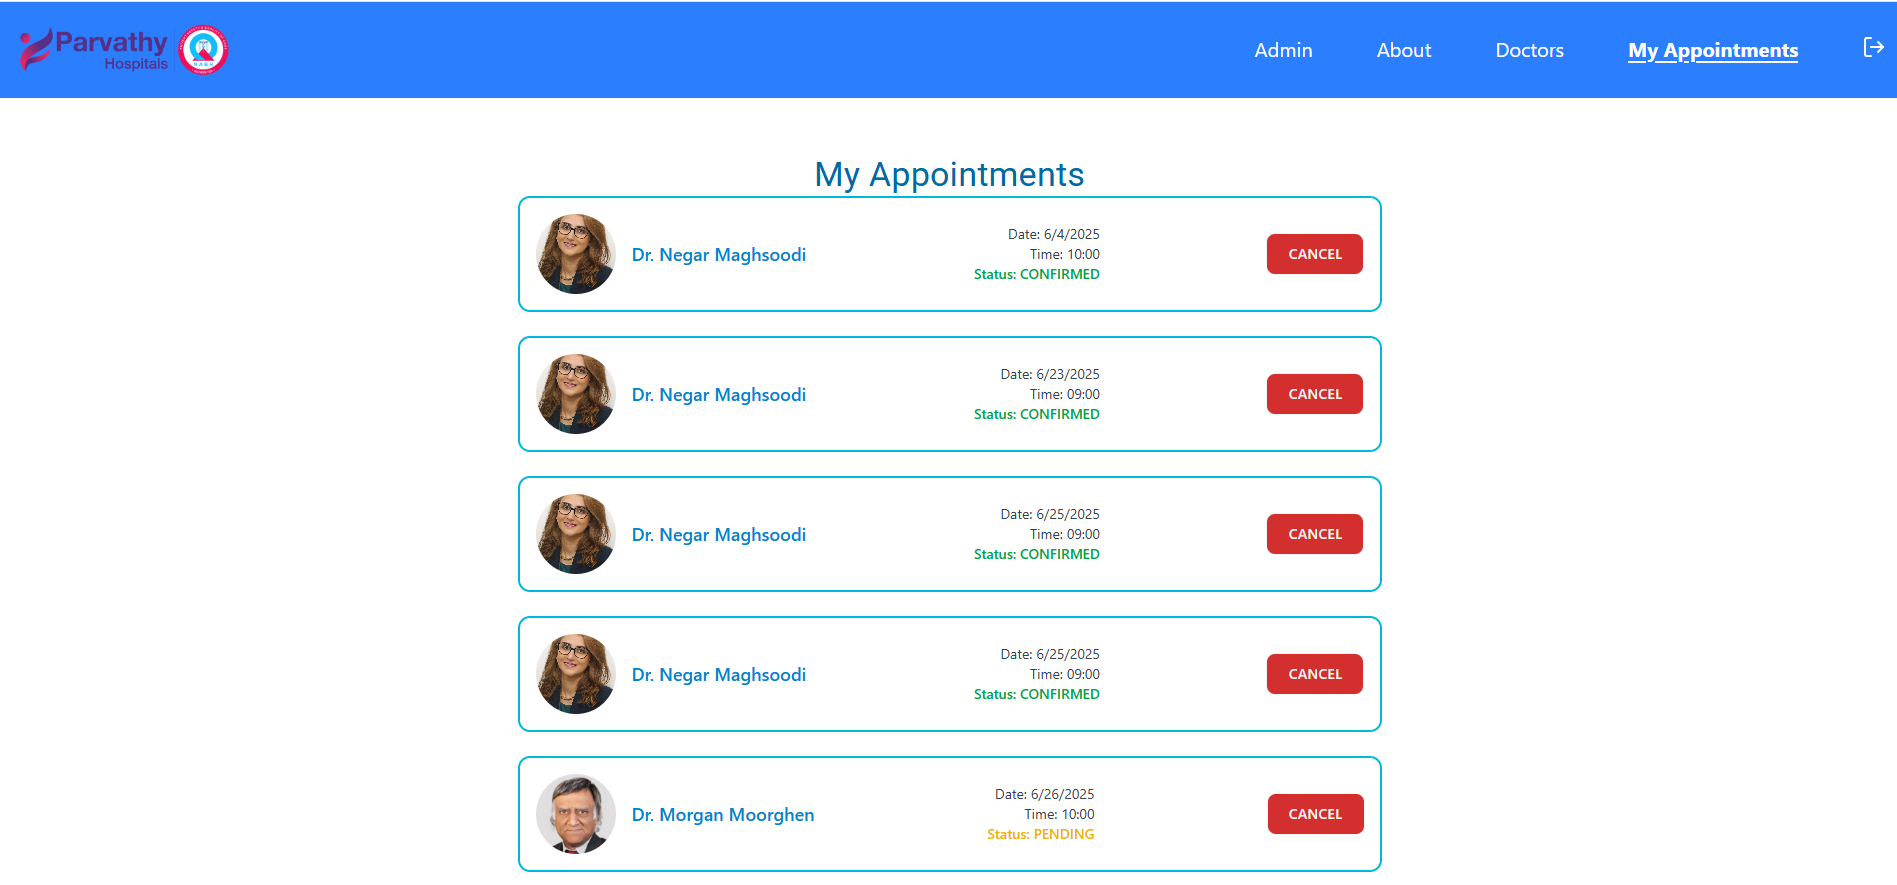
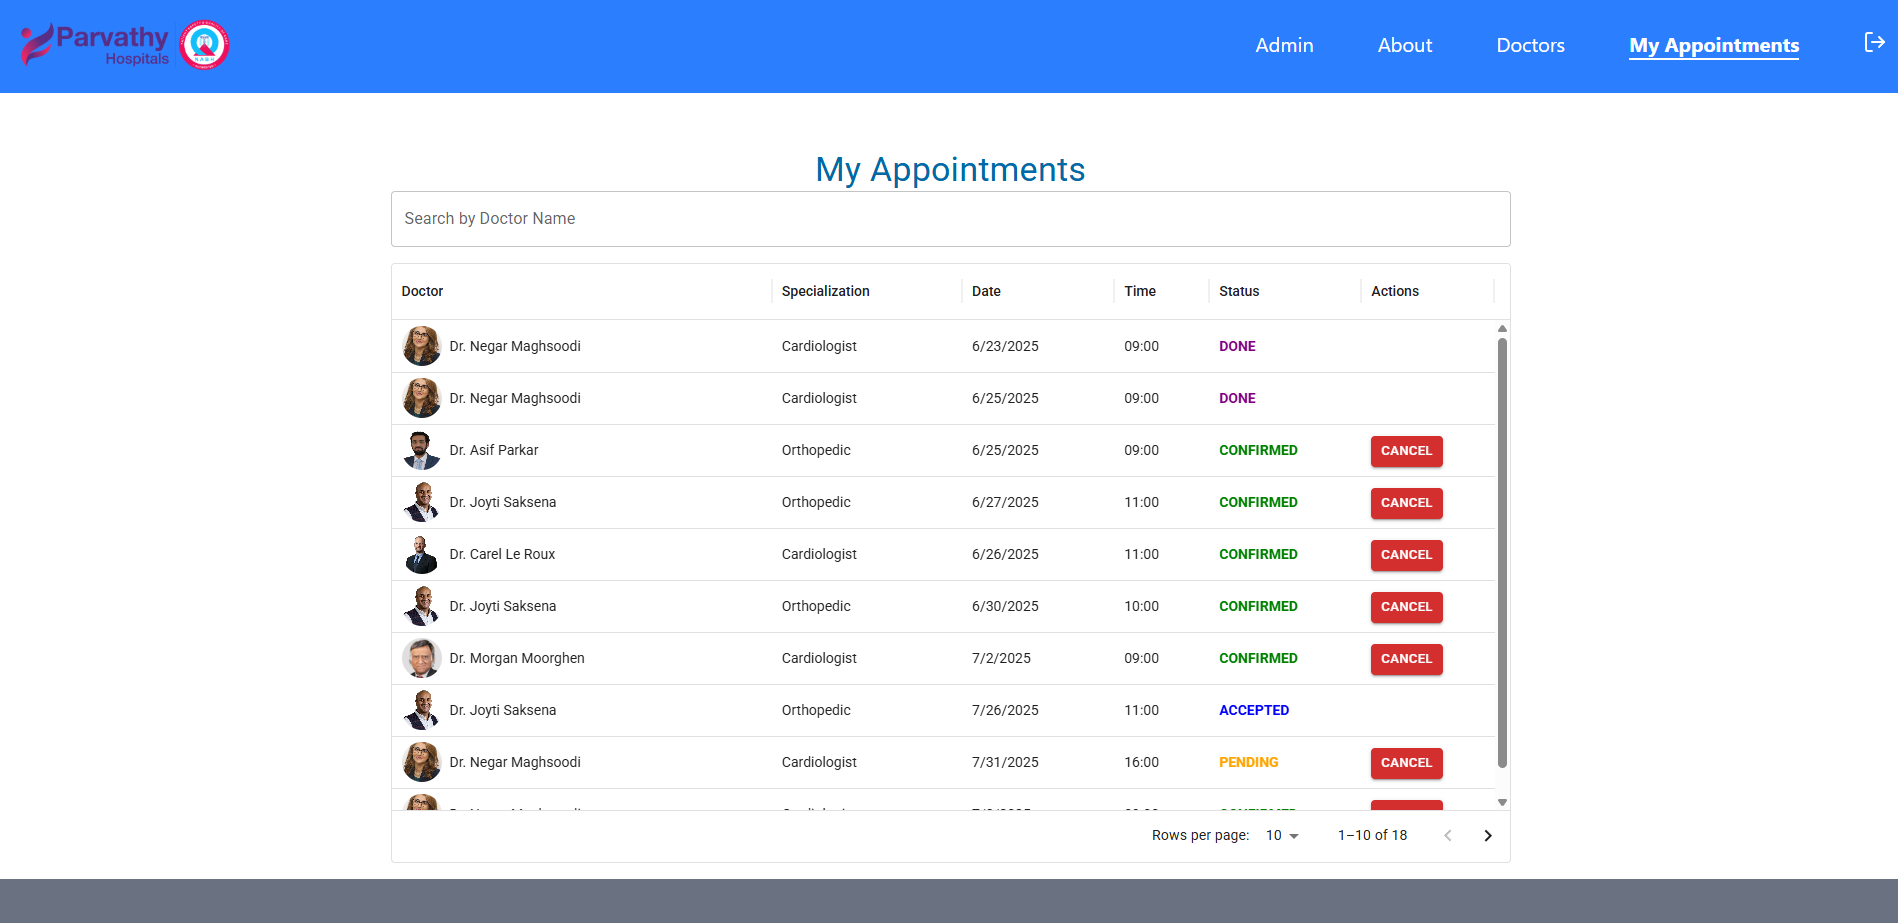
BREAKING CHANGE: whole page replaced with MUI data grid

diff --git a/src/pages/MyAppointmentsPage.tsx b/src/pages/MyAppointmentsPage.tsx
@@ -8,7 +8,10 @@ import {
   DialogContent,
   DialogContentText,
   DialogActions,
+  Avatar,
+  TextField,
 } from "@mui/material";
+import { DataGrid, type GridColDef } from "@mui/x-data-grid";
 import {
   getUserAppointments,
   cancelAppointment,
@@ -32,23 +35,14 @@ const MyAppointmentsPage = () => {
   const [appointmentToCancel, setAppointmentToCancel] = useState<string | null>(
     null
   );
+  const [searchDoctor, setSearchDoctor] = useState("");
 
   const updateStatuses = (appointments: AppointmentType[]) => {
     const now = new Date();
-    console.log("Now:", now.toISOString());
-
     return appointments.map((appt) => {
       if (appt.status === "PENDING") {
         const apptDateTime = parseAppointmentDateTime(appt.date, appt.timeSlot);
-        console.log(
-          `Appointment ${appt._id} datetime:`,
-          apptDateTime.toISOString()
-        );
-
         if (apptDateTime <= now) {
-          console.log(
-            `Updating appointment ${appt._id} status from PENDING to CONFIRMED`
-          );
           return { ...appt, status: "CONFIRMED" };
         }
       }
@@ -60,9 +54,7 @@ const MyAppointmentsPage = () => {
     const fetchAndUpdateAppointments = async () => {
       try {
         await updatePastPendingAppointments();
-
         const data = await getUserAppointments();
-
         const updatedAppointments = updateStatuses(data);
         setAppointments(updatedAppointments);
         setError(null);
@@ -102,79 +94,154 @@ const MyAppointmentsPage = () => {
     }
   };
 
+  const getStatusColor = (status: string) => {
+    switch (status) {
+      case "CANCELED":
+        return "red";
+      case "CONFIRMED":
+        return "green";
+      case "DONE":
+        return "purple";
+      case "ACCEPTED":
+        return "blue";
+      case "REJECTED":
+        return "gray";
+      case "PENDING":
+      default:
+        return "orange";
+    }
+  };
+
+  const columns: GridColDef[] = [
+    {
+      field: "doctor",
+      headerName: "Doctor",
+      flex: 2,
+      sortable: true,
+      sortComparator: (a, b) => {
+        // a, b είναι τα doctor objects
+        const nameA = a && typeof a === "object" ? `${a.firstname} ${a.lastname}`.toLowerCase() : "";
+        const nameB = b && typeof b === "object" ? `${b.firstname} ${b.lastname}`.toLowerCase() : "";
+        return nameA.localeCompare(nameB);
+      },
+      renderCell: (params) => {
+        const doctor = params.value;
+        if (!doctor) return <span className="text-red-500">Unknown</span>;
+        return (
+          <div className="flex items-center gap-2">
+            <Avatar src={doctor.image} alt={doctor.firstname} />
+            <span>
+              Dr. {doctor.firstname} {doctor.lastname}
+            </span>
+          </div>
+        );
+      },
+    },
+    {
+      field: "specialization",
+      headerName: "Specialization",
+      sortable: true,
+      flex: 1,
+      renderCell: (params: any) => {
+        const doctor = params.row.doctor;
+        if (!doctor) return "—";
+        return typeof doctor.specialization === "object"
+          ? doctor.specialization.name
+          : doctor.specialization;
+      },
+    },
+    {
+      field: "date",
+      headerName: "Date",
+      flex: 0.8,
+      renderCell: (params: any) => {
+        const dateValue = params.row.date;
+        if (!dateValue) return "—";
+        const dateObj = new Date(dateValue);
+        return isNaN(dateObj.getTime()) ? "—" : dateObj.toLocaleDateString();
+      },
+    },
+    {
+      field: "timeSlot",
+      headerName: "Time",
+      flex: 0.5,
+    },
+    {
+      field: "status",
+      headerName: "Status",
+      flex: 0.8,
+      renderCell: (params) => (
+        <span
+          style={{ color: getStatusColor(params.value), fontWeight: "bold" }}
+        >
+          {params.value}
+        </span>
+      ),
+    },
+    {
+      field: "actions",
+      headerName: "Actions",
+      flex: 0.7,
+      renderCell: (params) => {
+        const appt = params.row;
+        if (["PENDING", "CONFIRMED"].includes(appt.status)) {
+          return (
+            <Button
+              variant="contained"
+              color="error"
+              size="small"
+              onClick={() => openCancelDialog(appt._id)}
+            >
+              Cancel
+            </Button>
+          );
+        }
+        return null;
+      },
+    },
+  ];
+
+  // Filter appointments by doctor name
+  const filteredAppointments = appointments.filter((appt) => {
+    if (!searchDoctor.trim()) return true;
+    const doctor = appt.doctor;
+    if (!doctor) return false;
+    const fullName = `${doctor.firstname} ${doctor.lastname}`.toLowerCase();
+    return fullName.includes(searchDoctor.trim().toLowerCase());
+  });
+
   if (loading) return <CircularProgress />;
   if (error) return <p className="text-red-500">{error}</p>;
 
   return (
-    <div className="max-w-4xl mx-auto mt-10 p-4 min-h-[55vh]">
-      <Typography variant="h4" className="mb-4 text-center text-sky-700 ">
+    <div className="max-w-6xl mx-auto mt-10 p-4 min-h-[55vh]">
+      <Typography variant="h4" className="mb-6 text-center text-sky-700">
         My Appointments
       </Typography>
-
+      <div className="mb-4 flex justify-end">
+        <TextField
+          label="Search by Doctor Name"
+          variant="outlined"
+          fullWidth
+          value={searchDoctor}
+          onChange={(e) => setSearchDoctor(e.target.value)}
+        />
+      </div>
       {appointments.length === 0 ? (
         <Typography variant="body1" className="text-center text-red-600">
           You have no appointments.
         </Typography>
       ) : (
-        <div className="space-y-6">
-          {appointments.map((appt) => (
-            <div
-              key={appt._id}
-              className="border-2 border-cyan-500 rounded-xl p-4 flex flex-col md:flex-row justify-between items-center"
-            >
-              <div className="flex items-center space-x-4">
-                {appt.doctor.image && (
-                  <img
-                    src={appt.doctor.image}
-                    alt={appt.doctor.firstname}
-                    className="w-20 h-20 rounded-full object-cover"
-                  />
-                )}
-                <div>
-                  <p className="font-semibold text-lg text-sky-600">
-                    Dr. {appt.doctor.firstname} {appt.doctor.lastname}
-                  </p>
-                  <p className="text-gray-500">
-                    {appt.doctor.specialization.name}
-                  </p>
-                </div>
-              </div>
-
-              <div className="text-center md:text-right mt-4 md:mt-0">
-                <p className="text-sm text-gray-700">
-                  Date: {new Date(appt.date).toLocaleDateString()}
-                </p>
-                <p className="text-sm text-gray-700">Time: {appt.timeSlot}</p>
-                <p
-                  className={`text-sm font-semibold ${
-                    appt.status === "CANCELED"
-                      ? "text-red-500"
-                      : appt.status === "CONFIRMED"
-                      ? "text-green-600"
-                      : appt.status === "DONE"
-                      ? "text-purple-600"
-                      : appt.status === "ACCEPTED"
-                      ? "text-blue-500"
-                      : appt.status === "REJECTED"
-                      ? "text-gray-500"
-                      : "text-yellow-500"
-                  }`}
-                >
-                  Status: {appt.status}
-                </p>
-              </div>
-
-              {(appt.status === "PENDING" || appt.status === "CONFIRMED") && (
-                <Button
-                  variant="contained"
-                  color="error"
-                  onClick={() => openCancelDialog(appt._id)}
-                >
-                  Cancel
-                </Button>
-              )}
-            </div>
-          ))}
+        <div style={{ height: 600, width: "100%" }}>
+          <DataGrid
+            rows={filteredAppointments}
+            columns={columns}
+            getRowId={(row) => row._id}
+            pageSizeOptions={[5, 10, 20]}
+            initialState={{
+              pagination: { paginationModel: { pageSize: 10, page: 0 } },
+            }}
+          />
         </div>
       )}
 
